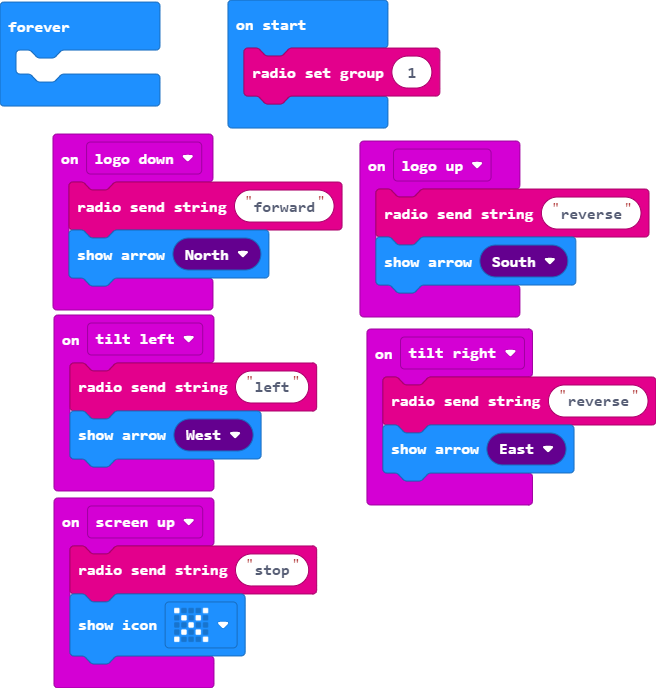
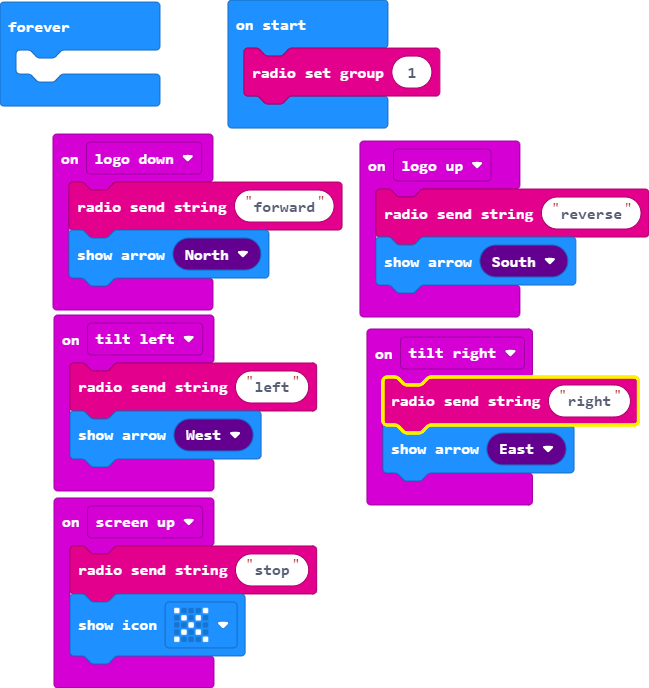
Update main.blocks, main.ts

diff --git a/main.ts b/main.ts
@@ -11,7 +11,7 @@ input.onGesture(Gesture.ScreenUp, function () {
     basic.showIcon(IconNames.No)
 })
 input.onGesture(Gesture.TiltRight, function () {
-    radio.sendString("reverse")
+    radio.sendString("right")
     basic.showArrow(ArrowNames.East)
 })
 input.onGesture(Gesture.LogoDown, function () {
